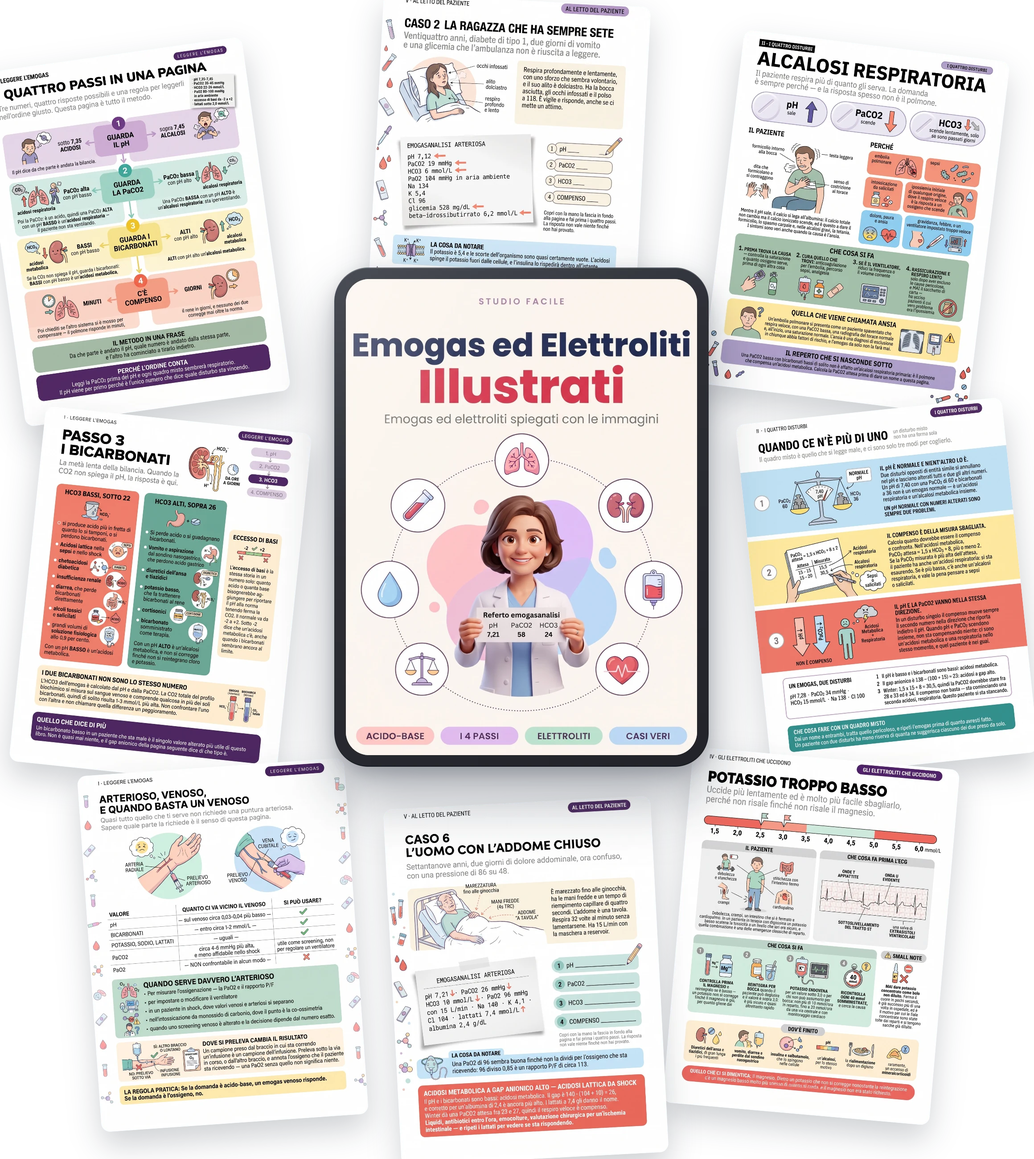
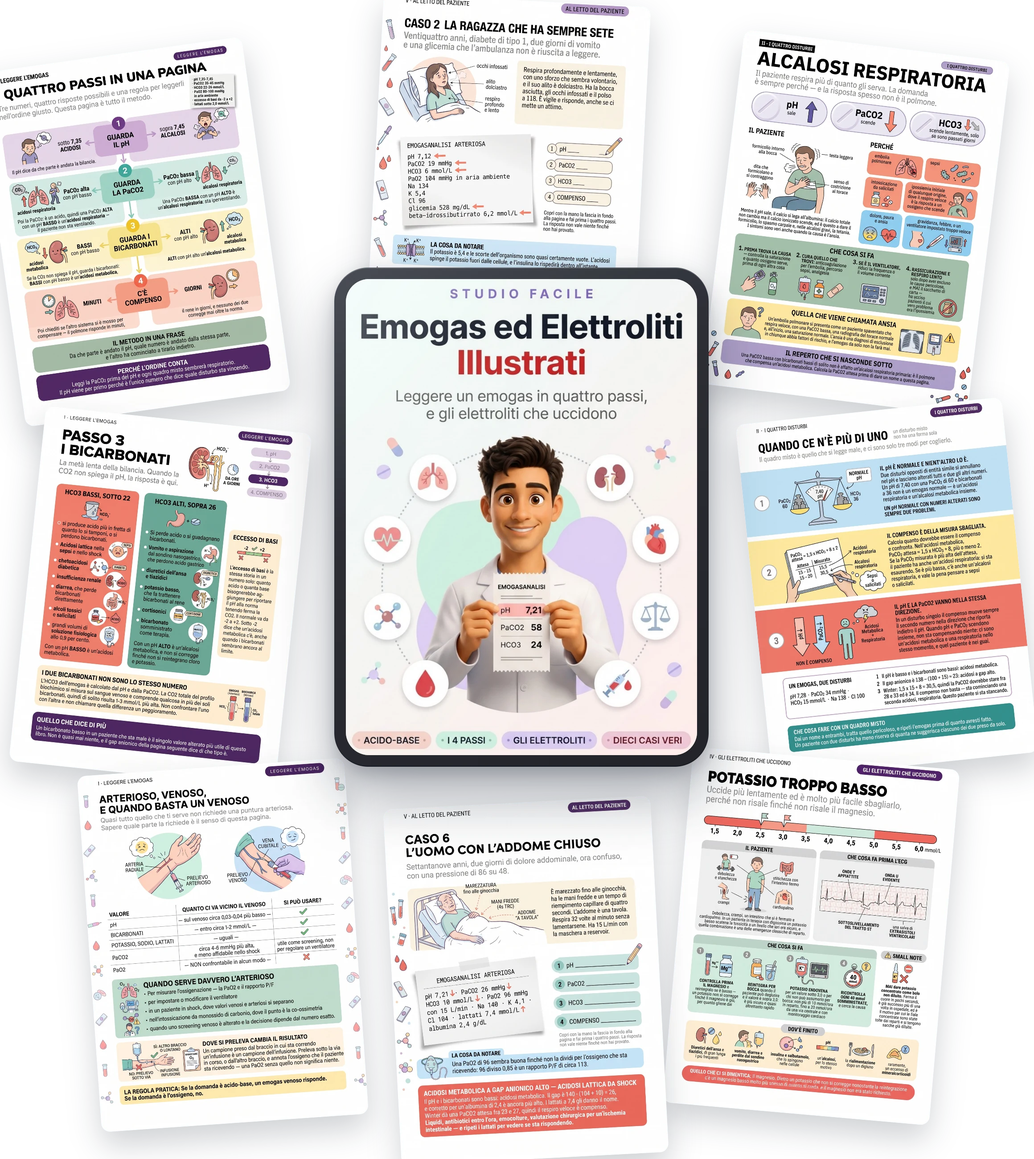
Nuova copertina per Emogas: la variante della collana italiana
Delle tre proposte Luca ha scelto la A. La precedente — fondo crema, titolo blu
notte e rosso, un'infermiera — era stata fatta identica all'edizione americana,
e da quando esistono «Capire le tue analisi» e «I farmaci che prendi» quel
volume stava su uno scaffale diverso dagli altri due.

La prima passata stampava «Blood gas» sulla striscia che tiene in mano: parole
inglesi su una copertina italiana. Rigenerata con l'istruzione esplicita, ora
la striscia dice EMOGASANALISI, con pH 7,21 in rosso, PaCO2 58 e HCO3 24.

La copertina di prima resta in pagine/_cover_precedente.jpeg.

Changed region(s): [[0.3414, 0.2492, 0.6828, 0.6542], [0.6207, 0.3738, 0.6517, 0.405]]

diff --git a/emogas.html b/emogas.html
@@ -2136,7 +2136,7 @@
            all'hero senza aggiungere niente che non fosse gia' detto.
            Le tre menzioni le mette scripts/avviso_digitale.py. -->
       <div class="hero-mockup">
-        <img src="https://czocbnyoenjbpxmcqobn.supabase.co/storage/v1/object/public/algoritmia-img/studiofacile/mockups/emogas/hero.webp?v=1f509f46" alt="Emogas ed Elettroliti Illustrati — Studio Facile"
+        <img src="https://czocbnyoenjbpxmcqobn.supabase.co/storage/v1/object/public/algoritmia-img/studiofacile/mockups/emogas/hero.webp?v=da231f15" alt="Emogas ed Elettroliti Illustrati — Studio Facile"
              width="1200" height="780" loading="eager" fetchpriority="high" decoding="async">
       </div>
       <p class="hero-social">
@@ -2309,7 +2309,7 @@
     <div class="container">
       <h2 class="text-center">Dai un'occhiata alle 5 parti e ai 35 capitoli</h2>
       <div style="margin: 20px auto 28px;">
-        <img src="https://czocbnyoenjbpxmcqobn.supabase.co/storage/v1/object/public/algoritmia-img/studiofacile/mockups/emogas/combo.webp?v=05ad7dab" alt="La copertina di Emogas ed Elettroliti Illustrati circondata da pagine di esempio" width="1140" height="1260" loading="lazy" decoding="async" style="max-width: 480px; width: 100%; height: auto; display: block; margin: 0 auto;">
+        <img src="https://czocbnyoenjbpxmcqobn.supabase.co/storage/v1/object/public/algoritmia-img/studiofacile/mockups/emogas/combo.webp?v=8fcaff2a" alt="La copertina di Emogas ed Elettroliti Illustrati circondata da pagine di esempio" width="1140" height="1260" loading="lazy" decoding="async" style="max-width: 480px; width: 100%; height: auto; display: block; margin: 0 auto;">
       </div>
       <div class="topics-grid">
         <div class="topic-item">
@@ -2372,7 +2372,7 @@
 
       <!-- DECISION BOX -->
       <div class="decision-box" id="offerta">
-        <img src="https://czocbnyoenjbpxmcqobn.supabase.co/storage/v1/object/public/algoritmia-img/studiofacile/mockups/emogas/hero.webp?v=1f509f46" alt="Kit Emogas ed Elettroliti: il volume e i 2 bonus" class="db-mockup" width="1200" height="780" loading="lazy" decoding="async">
+        <img src="https://czocbnyoenjbpxmcqobn.supabase.co/storage/v1/object/public/algoritmia-img/studiofacile/mockups/emogas/hero.webp?v=da231f15" alt="Kit Emogas ed Elettroliti: il volume e i 2 bonus" class="db-mockup" width="1200" height="780" loading="lazy" decoding="async">
         <h3 class="db-title">Kit Emogas ed Elettroliti</h3>
         <ul class="db-checklist">
           <li><span class="db-check"><svg viewBox="0 0 24 24"><polyline points="20 6 9 17 4 12"/></svg></span>Emogas ed Elettroliti Illustrati, 50 pagine illustrate<span class="db-price-val">21,90€</span></li>
